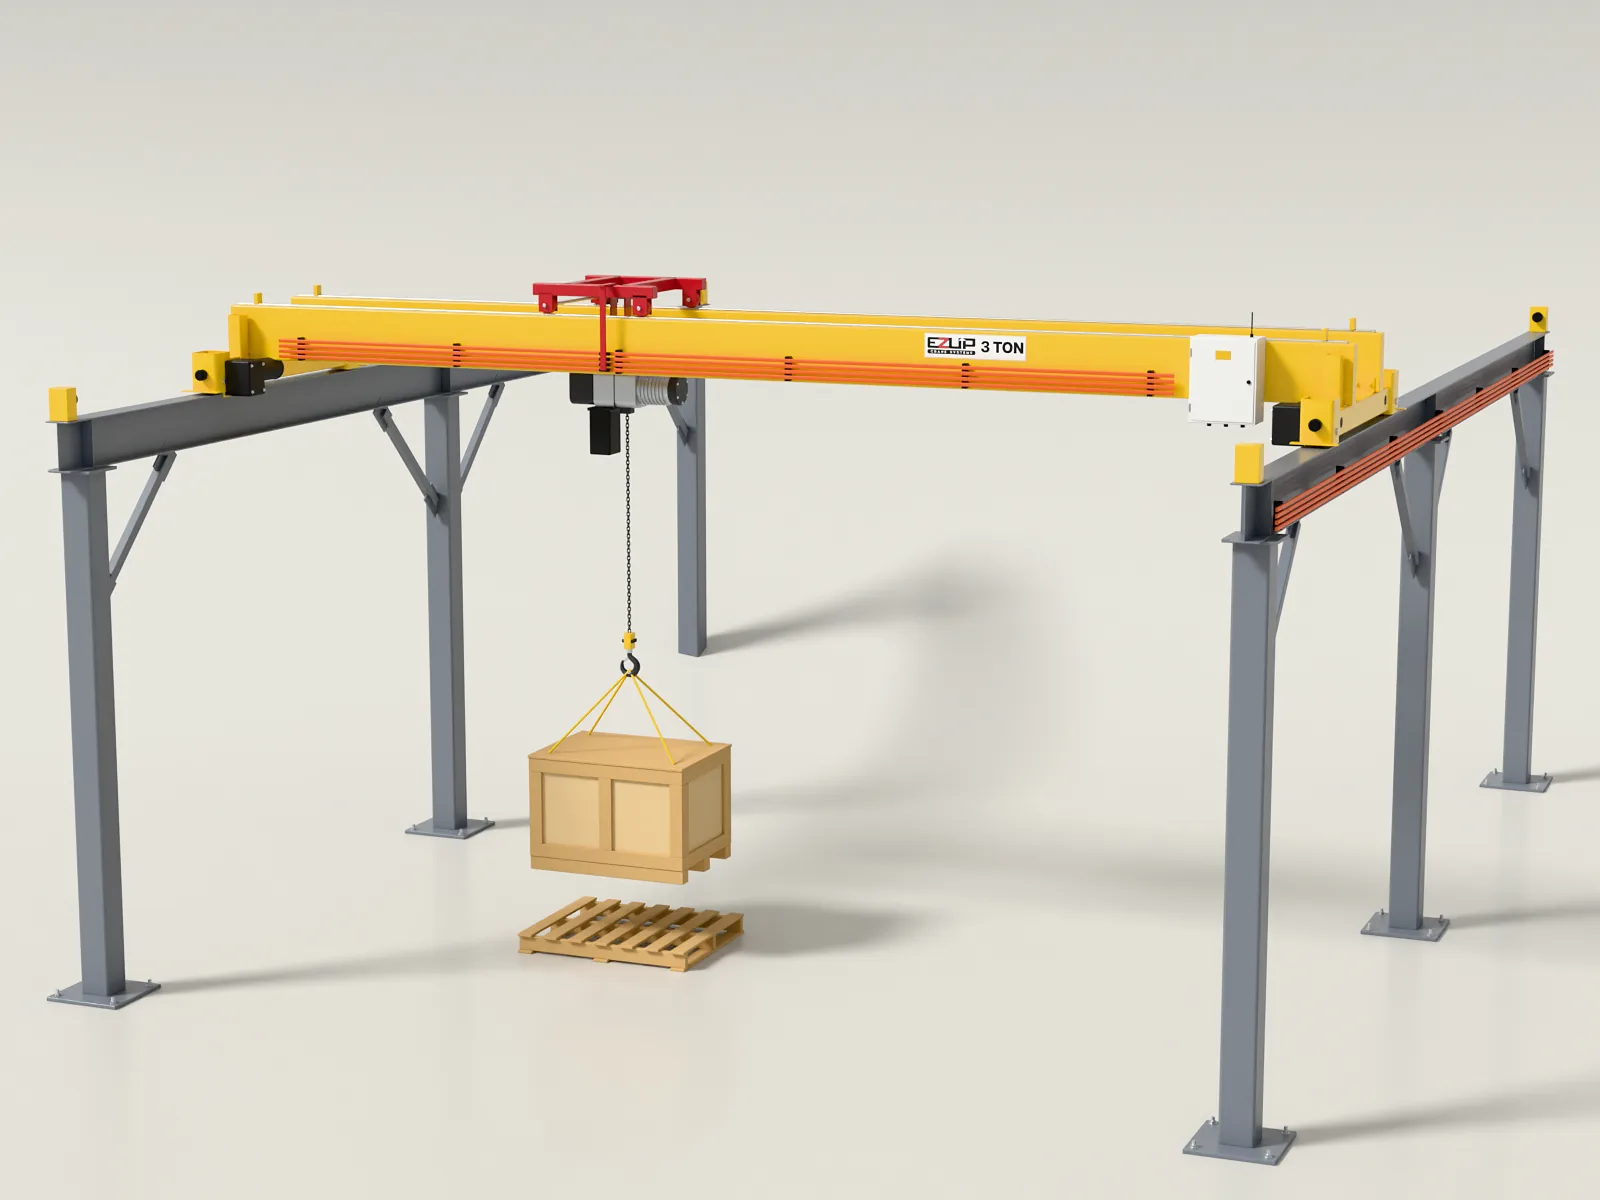
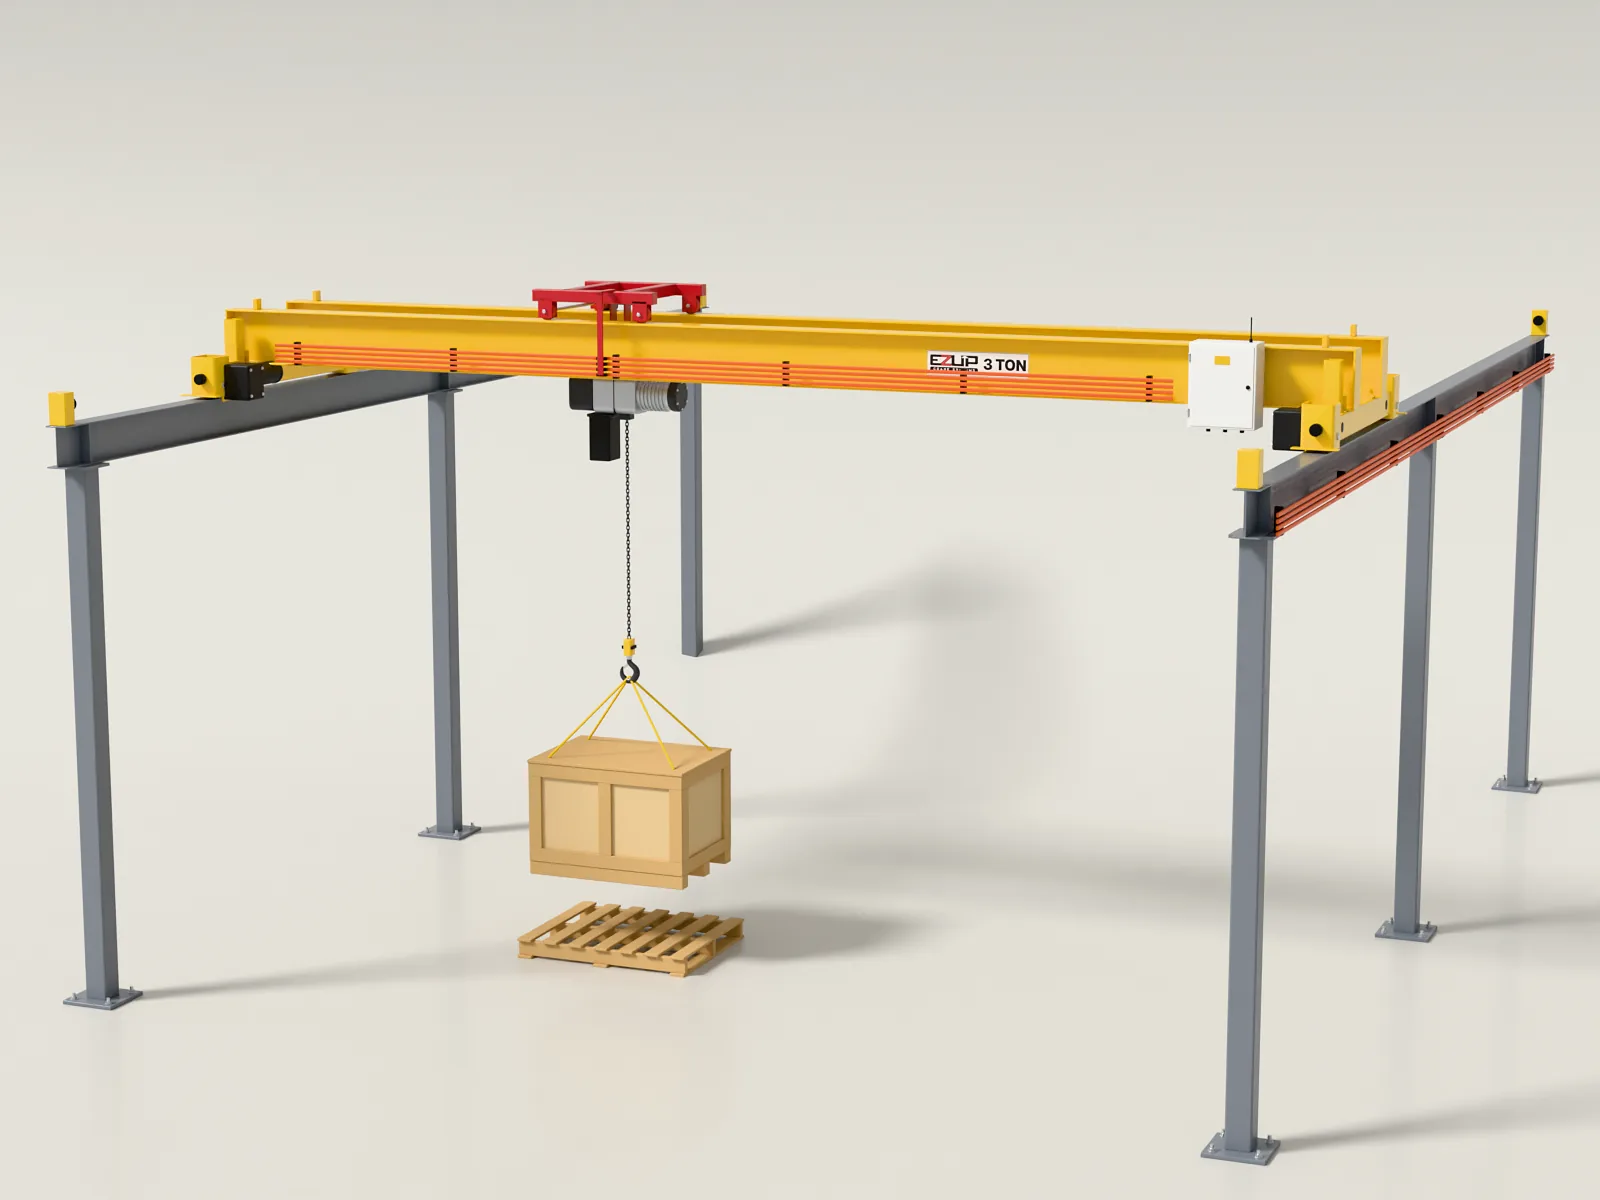
Re-render site imagery to match the product: W-shape girders, no runway knee braces, SafeLec 2 bar on the monorail; new home hero, product-line picture and share image
Claude-Session: https://claude.ai/code/session_01E57Fzo7u4wVUy3NBBAUzGk

diff --git a/site/index.html b/site/index.html
@@ -56,34 +56,34 @@
 <div class="ga-stage">
 <img src="assets/img/render/ezup-crane-cutout-1000.webp" srcset="assets/img/render/ezup-crane-cutout-1000.webp 1000w, assets/img/render/ezup-crane-cutout-2000.webp 2000w" sizes="(min-width: 980px) 780px, 100vw" alt="Rendering of an EZUP 3 ton double-girder bridge crane on a six-column free-standing runway, lifting a wooden crate. Numbered callouts mark the trolley, control panel, end truck drive, conductor bar, hoist and column base." width="2000" height="1400" fetchpriority="high">
 <svg class="ga-lines" viewBox="0 0 1000 700" preserveAspectRatio="none" aria-hidden="true">
-<path d="M138.6 85.7 L751.3 96.3"/>
-<path class="ext" d="M141.9 187.0 L138.3 75.2"/>
-<path class="tick" d="M129.6 94.8 L147.6 76.6"/>
-<path class="ext" d="M748.7 211.1 L751.6 84.5"/>
-<path class="tick" d="M742.3 105.4 L760.3 87.2"/>
-<path d="M352.0 128.8 L352.0 184.8"/>
-<circle cx="352.0" cy="184.8" r="4"/>
-<path d="M652.2 151.3 L702.2 245.8"/>
-<circle cx="702.2" cy="245.8" r="4"/>
-<path d="M765.8 356.0 L723.8 268.5"/>
-<circle cx="723.8" cy="268.5" r="4"/>
-<path d="M554.0 323.9 L524.0 239.9"/>
-<circle cx="524.0" cy="239.9" r="4"/>
-<path d="M435.3 310.4 L360.3 247.4"/>
-<circle cx="360.3" cy="247.4" r="4"/>
-<path d="M583.8 648.3 L688.8 665.8"/>
-<circle cx="688.8" cy="665.8" r="4"/>
-<path d="M418.7 487.6 L463.7 480.6"/>
-<circle cx="418.7" cy="487.6" r="4"/>
+<path d="M138.9 84.8 L757.2 95.4"/>
+<path class="ext" d="M142.1 187.0 L138.5 74.3"/>
+<path class="tick" d="M129.9 93.9 L147.9 75.7"/>
+<path class="ext" d="M754.6 211.3 L757.5 83.5"/>
+<path class="tick" d="M748.2 104.5 L766.2 86.3"/>
+<path d="M354.0 128.7 L354.0 184.7"/>
+<circle cx="354.0" cy="184.7" r="4"/>
+<path d="M656.7 151.0 L706.7 245.5"/>
+<circle cx="706.7" cy="245.5" r="4"/>
+<path d="M771.4 355.5 L729.4 268.0"/>
+<circle cx="729.4" cy="268.0" r="4"/>
+<path d="M556.5 323.5 L526.5 239.5"/>
+<circle cx="526.5" cy="239.5" r="4"/>
+<path d="M437.4 310.8 L362.4 247.8"/>
+<circle cx="362.4" cy="247.8" r="4"/>
+<path d="M589.3 651.6 L694.3 669.1"/>
+<circle cx="694.3" cy="669.1" r="4"/>
+<path d="M420.6 489.0 L465.6 482.0"/>
+<circle cx="420.6" cy="489.0" r="4"/>
 </svg>
-<span class="dim" style="left:44.49%;top:13.00%" aria-hidden="true">Bridge spans to 60 ft</span>
-<span class="dim" style="left:54.87%;top:68.66%" aria-hidden="true">Capacity to 3 tons</span>
-<span class="balloon" data-key="1" style="left:35.20%;top:18.40%" aria-hidden="true">1</span>
-<span class="balloon" data-key="2" style="left:65.22%;top:21.61%" aria-hidden="true">2</span>
-<span class="balloon" data-key="3" style="left:76.58%;top:50.86%" aria-hidden="true">3</span>
-<span class="balloon" data-key="4" style="left:55.40%;top:46.27%" aria-hidden="true">4</span>
-<span class="balloon" data-key="5" style="left:43.53%;top:44.34%" aria-hidden="true">5</span>
-<span class="balloon" data-key="6" style="left:58.38%;top:92.62%" aria-hidden="true">6</span>
+<span class="dim" style="left:44.80%;top:12.88%" aria-hidden="true">Bridge spans to 60 ft</span>
+<span class="dim" style="left:55.06%;top:68.86%" aria-hidden="true">Capacity to 3 tons</span>
+<span class="balloon" data-key="1" style="left:35.40%;top:18.39%" aria-hidden="true">1</span>
+<span class="balloon" data-key="2" style="left:65.67%;top:21.57%" aria-hidden="true">2</span>
+<span class="balloon" data-key="3" style="left:77.14%;top:50.79%" aria-hidden="true">3</span>
+<span class="balloon" data-key="4" style="left:55.65%;top:46.22%" aria-hidden="true">4</span>
+<span class="balloon" data-key="5" style="left:43.74%;top:44.40%" aria-hidden="true">5</span>
+<span class="balloon" data-key="6" style="left:58.93%;top:93.09%" aria-hidden="true">6</span>
 </div>
 <figcaption>Rendering: EZUP Industrial crane, 3 ton, on a free-standing runway</figcaption>
 </figure>

diff --git a/src/index.html b/src/index.html
@@ -14,34 +14,34 @@
 <div class="ga-stage">
 <img src="assets/img/render/ezup-crane-cutout-1000.webp" srcset="assets/img/render/ezup-crane-cutout-1000.webp 1000w, assets/img/render/ezup-crane-cutout-2000.webp 2000w" sizes="(min-width: 980px) 780px, 100vw" alt="Rendering of an EZUP 3 ton double-girder bridge crane on a six-column free-standing runway, lifting a wooden crate. Numbered callouts mark the trolley, control panel, end truck drive, conductor bar, hoist and column base." width="2000" height="1400" fetchpriority="high">
 <svg class="ga-lines" viewBox="0 0 1000 700" preserveAspectRatio="none" aria-hidden="true">
-<path d="M138.6 85.7 L751.3 96.3"/>
-<path class="ext" d="M141.9 187.0 L138.3 75.2"/>
-<path class="tick" d="M129.6 94.8 L147.6 76.6"/>
-<path class="ext" d="M748.7 211.1 L751.6 84.5"/>
-<path class="tick" d="M742.3 105.4 L760.3 87.2"/>
-<path d="M352.0 128.8 L352.0 184.8"/>
-<circle cx="352.0" cy="184.8" r="4"/>
-<path d="M652.2 151.3 L702.2 245.8"/>
-<circle cx="702.2" cy="245.8" r="4"/>
-<path d="M765.8 356.0 L723.8 268.5"/>
-<circle cx="723.8" cy="268.5" r="4"/>
-<path d="M554.0 323.9 L524.0 239.9"/>
-<circle cx="524.0" cy="239.9" r="4"/>
-<path d="M435.3 310.4 L360.3 247.4"/>
-<circle cx="360.3" cy="247.4" r="4"/>
-<path d="M583.8 648.3 L688.8 665.8"/>
-<circle cx="688.8" cy="665.8" r="4"/>
-<path d="M418.7 487.6 L463.7 480.6"/>
-<circle cx="418.7" cy="487.6" r="4"/>
+<path d="M138.9 84.8 L757.2 95.4"/>
+<path class="ext" d="M142.1 187.0 L138.5 74.3"/>
+<path class="tick" d="M129.9 93.9 L147.9 75.7"/>
+<path class="ext" d="M754.6 211.3 L757.5 83.5"/>
+<path class="tick" d="M748.2 104.5 L766.2 86.3"/>
+<path d="M354.0 128.7 L354.0 184.7"/>
+<circle cx="354.0" cy="184.7" r="4"/>
+<path d="M656.7 151.0 L706.7 245.5"/>
+<circle cx="706.7" cy="245.5" r="4"/>
+<path d="M771.4 355.5 L729.4 268.0"/>
+<circle cx="729.4" cy="268.0" r="4"/>
+<path d="M556.5 323.5 L526.5 239.5"/>
+<circle cx="526.5" cy="239.5" r="4"/>
+<path d="M437.4 310.8 L362.4 247.8"/>
+<circle cx="362.4" cy="247.8" r="4"/>
+<path d="M589.3 651.6 L694.3 669.1"/>
+<circle cx="694.3" cy="669.1" r="4"/>
+<path d="M420.6 489.0 L465.6 482.0"/>
+<circle cx="420.6" cy="489.0" r="4"/>
 </svg>
-<span class="dim" style="left:44.49%;top:13.00%" aria-hidden="true">Bridge spans to 60 ft</span>
-<span class="dim" style="left:54.87%;top:68.66%" aria-hidden="true">Capacity to 3 tons</span>
-<span class="balloon" data-key="1" style="left:35.20%;top:18.40%" aria-hidden="true">1</span>
-<span class="balloon" data-key="2" style="left:65.22%;top:21.61%" aria-hidden="true">2</span>
-<span class="balloon" data-key="3" style="left:76.58%;top:50.86%" aria-hidden="true">3</span>
-<span class="balloon" data-key="4" style="left:55.40%;top:46.27%" aria-hidden="true">4</span>
-<span class="balloon" data-key="5" style="left:43.53%;top:44.34%" aria-hidden="true">5</span>
-<span class="balloon" data-key="6" style="left:58.38%;top:92.62%" aria-hidden="true">6</span>
+<span class="dim" style="left:44.80%;top:12.88%" aria-hidden="true">Bridge spans to 60 ft</span>
+<span class="dim" style="left:55.06%;top:68.86%" aria-hidden="true">Capacity to 3 tons</span>
+<span class="balloon" data-key="1" style="left:35.40%;top:18.39%" aria-hidden="true">1</span>
+<span class="balloon" data-key="2" style="left:65.67%;top:21.57%" aria-hidden="true">2</span>
+<span class="balloon" data-key="3" style="left:77.14%;top:50.79%" aria-hidden="true">3</span>
+<span class="balloon" data-key="4" style="left:55.65%;top:46.22%" aria-hidden="true">4</span>
+<span class="balloon" data-key="5" style="left:43.74%;top:44.40%" aria-hidden="true">5</span>
+<span class="balloon" data-key="6" style="left:58.93%;top:93.09%" aria-hidden="true">6</span>
 </div>
 <figcaption>Rendering: EZUP Industrial crane, 3 ton, on a free-standing runway</figcaption>
 </figure>

diff --git a/renders/scenes.py b/renders/scenes.py
@@ -499,8 +499,10 @@ def monorail(m):
     member('mono_beam', P_I(d, bf, 0.0138, 0.009), (0, -Lb / 2, zt - d / 2), (0, Lb / 2, zt - d / 2), m.yellow)
     for sy in (-1, 1):
         box('end_stop', (bf + 0.03, 0.02, d * 0.5), (0, sy * (Lb / 2 - 0.1), zt - d - 0.0 + d * 0.25), m.yellow, bevel=0.002)
-    _nameplate(m, 'nameplate-2ton.png', (bf / 2 - 0.057, -2.3, zt - d / 2), (1, 0, 0), h=0.105).matrix_world.translation.x = 0.0048
+    _nameplate(m, 'nameplate-2ton.png', (bf / 2 - 0.057, -2.3, zt - d + 0.225), (1, 0, 0), h=0.095).matrix_world.translation.x = 0.0048
     zf = zt - d
+    # Conductix SafeLec 2 conductor bar on brackets off the web, low and clear of the trolley side plates
+    conductor_bars((0.0045, -Lb / 2 + 0.25, zf + 0.03), (0.0045, Lb / 2 - 0.25, zf + 0.03), (1, 0, 0), m, pitch=0.026, standoff=0.11, every=1.3)
     # process tanks
     for y, col in ((-0.4, '#27506B'), (2.4, '#3C6B4A')):
         place(tank(m, (1.5, 2.0, 1.0), liquid=col), (0, y, 0), 0.0, 'tank')
